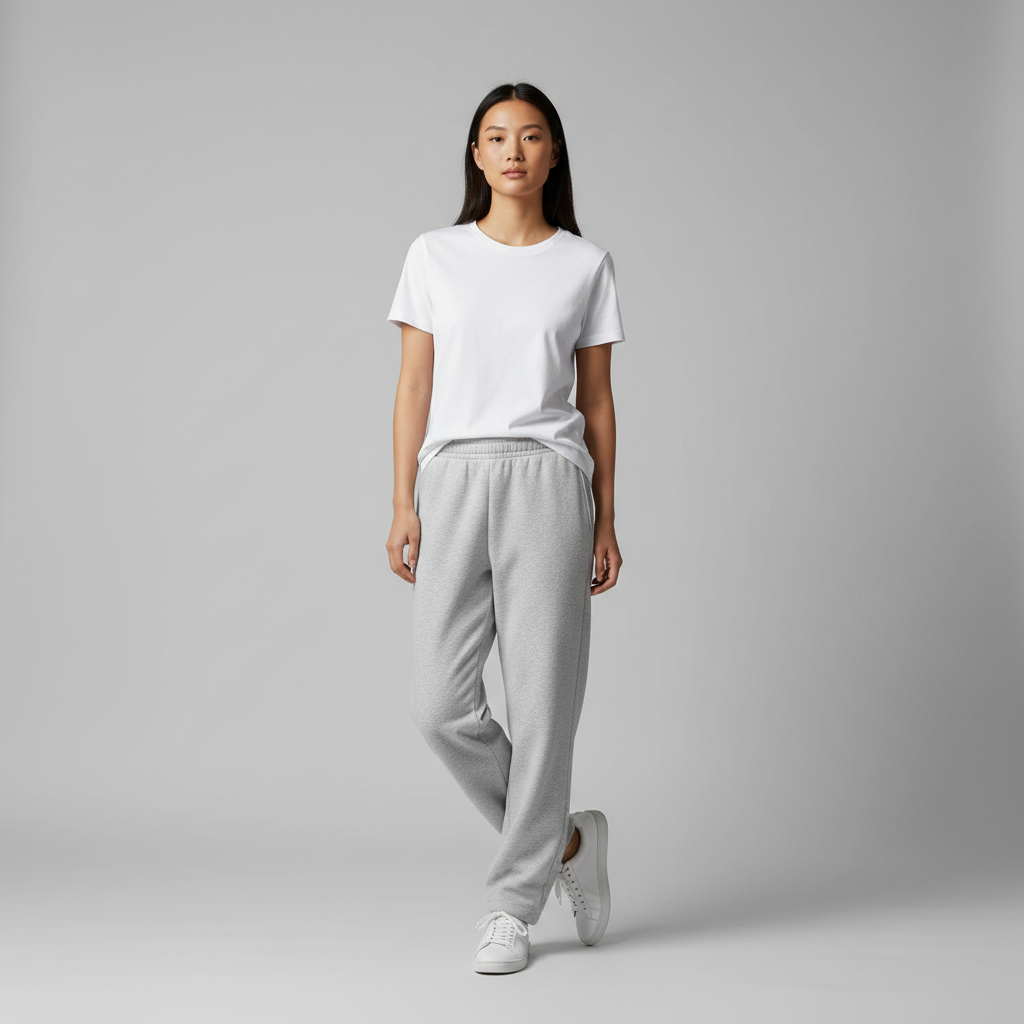
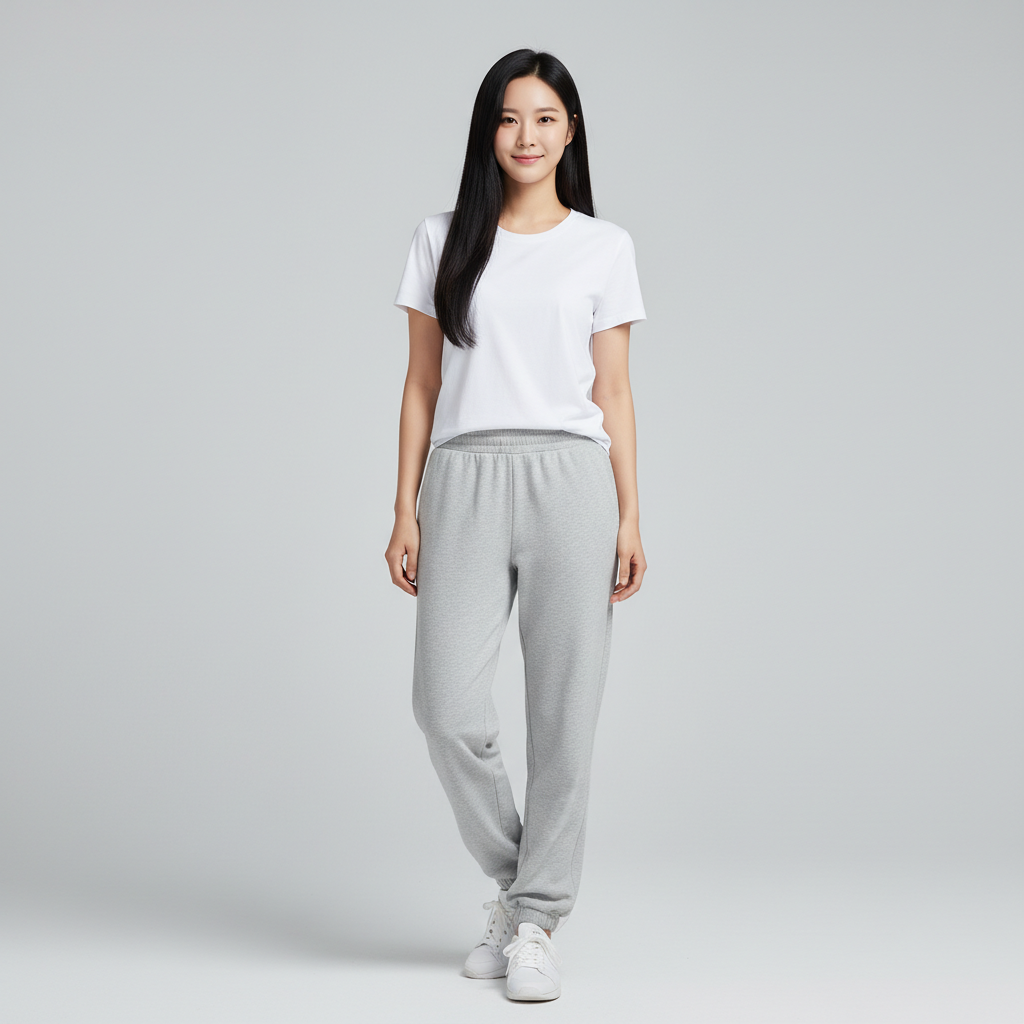
feat: 한국 미인/미남형 모델 이미지 교체 + 기본 모델 강제 사용
- Gemini로 6개 모델 이미지 재생성 (한국형 20s/30s/40plus x 남녀)
- 항상 기본 모델 이미지 우선 사용 (제품 이미지의 모델이 반영되는 것 방지)
- 프롬프트에 "제품 이미지의 모델 무시" 지시 추가

diff --git a/backend/app/services/virtual_tryon.py b/backend/app/services/virtual_tryon.py
@@ -413,6 +413,8 @@ async def generate_tryon_image(
         f"{items_text}\n"
         f"IMPORTANT: Every listed item must be clearly visible and correctly worn. "
         f"Preserve the exact color, fabric texture, and design details from each item image.\n"
+        f"CRITICAL: If any item image contains a human model, IGNORE that model completely. "
+        f"Only use the reference model photo provided below. Extract ONLY the clothing item from product images.\n"
         f"{_build_color_override_block(item_infos, color_overrides)}"
         f"{skin_block}"
         f"{lighting_block}"
@@ -422,16 +424,13 @@ async def generate_tryon_image(
         f"Clean, minimal, professional. No text overlays or watermarks."
     )
 
-    # 모델 이미지: 사용자 제공 URL → 기본 모델(로컬 파일) 순서
-    model_bytes: bytes | None = None
-    if model_image_url:
+    # 항상 기본 모델 이미지를 사용 (제품 이미지의 모델이 반영되는 것 방지)
+    model_bytes = _get_default_model_bytes(user_gender, user_age_group)
+    if not model_bytes and model_image_url:
         try:
             model_bytes = await _fetch_image_bytes(model_image_url)
         except Exception as exc:
             logger.warning("user model image fetch failed (%s)", exc)
-
-    if not model_bytes:
-        model_bytes = _get_default_model_bytes(user_gender, user_age_group)
 
     if model_bytes:
         content_parts.append(types.Part.from_text(text="[REFERENCE MODEL PHOTO — use this person's face and body]"))
@@ -450,6 +449,8 @@ async def generate_tryon_image(
             f"{items_text}\n"
             f"IMPORTANT: Every listed item must be clearly visible and correctly worn. "
             f"Preserve the exact color, fabric texture, and design details from each item image.\n"
+            f"CRITICAL: If any item image contains a human model, IGNORE that model completely. "
+            f"Only use the reference model photo above. Extract ONLY the clothing item from product images.\n"
             f"{_build_color_override_block(item_infos, color_overrides)}"
             f"{skin_block}"
             f"{lighting_block}"
